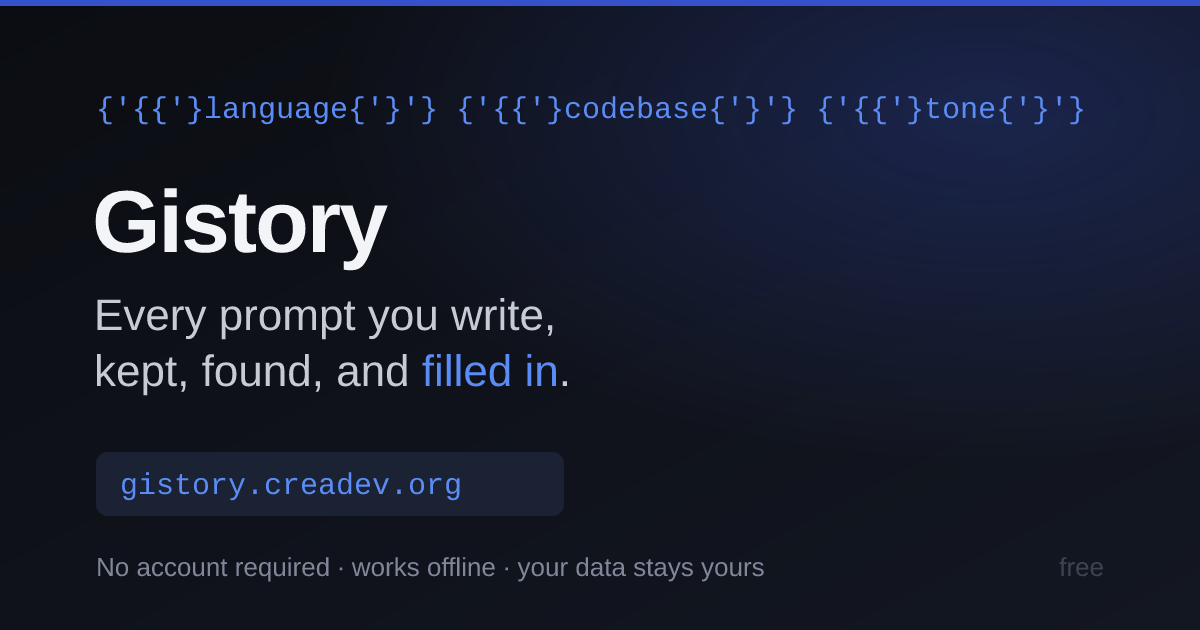
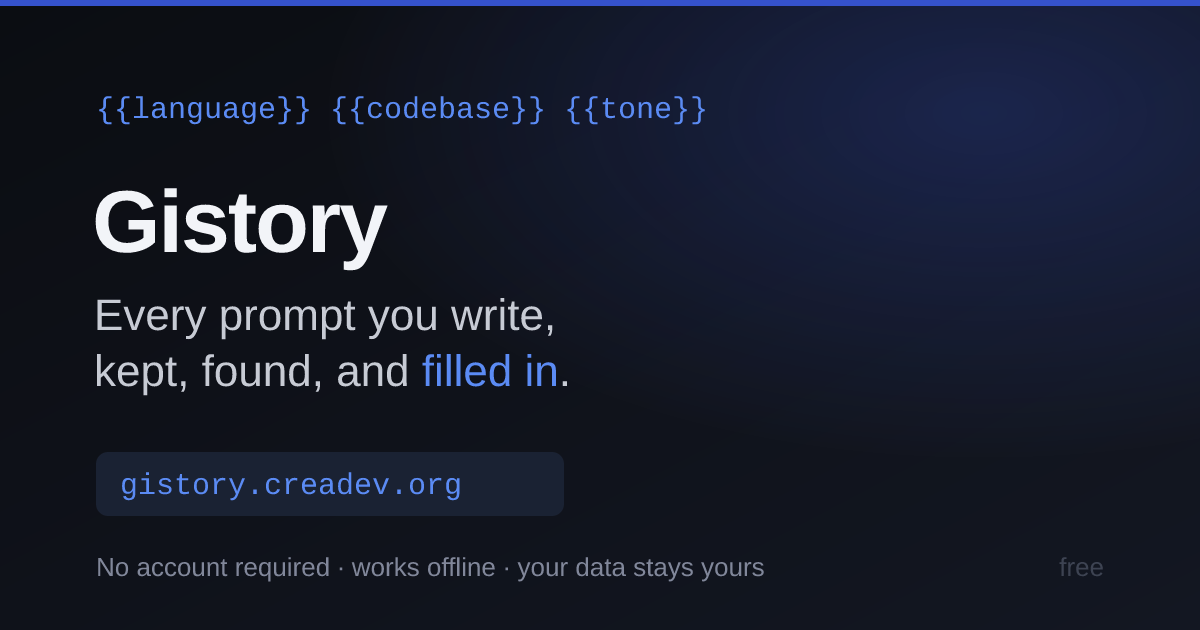
og: render the variable tag row as variables, not escape soup
The site card's decorative row showed {'{{'}language{'}'} … literally: the
Jekyll-escaping idiom from the docs pages was copied into the SVG template
in build-og.mjs, where nothing escapes. Plain {{language}} {{codebase}}
{{tone}} regenerates all three committed cards.

🤖 Generated with Codebuff

Changed region(s): [[0.0925, 0.1508, 0.925, 0.2111]]

diff --git a/labs/TASKS.md b/labs/TASKS.md
@@ -13,6 +13,13 @@ Conventions
 
 ## Now
 
+- **OG card tag-row fix (2026-10-25).** `public/og-image.png` rendered its
+  decorative variable row as literal Jekyll-escape soup
+  (`{'{{'}language{'}'} …`) — the escaping idiom from the docs pages was
+  cargo-culted into `scripts/build-og.mjs`'s SVG, where nothing needs
+  escaping. Now plain `{{language}} {{codebase}} {{tone}}`, regenerated all
+  three committed cards via `npm run build:og`.
+
 - **D1 500MB incident + repairs (2026-10-25).** The relay's D1 hit the plan's
   500MB ceiling (API error 7500 refuses ALL writes at that size, so the daily
   maintenance could not even shrink it — every scheduled run died on its first
